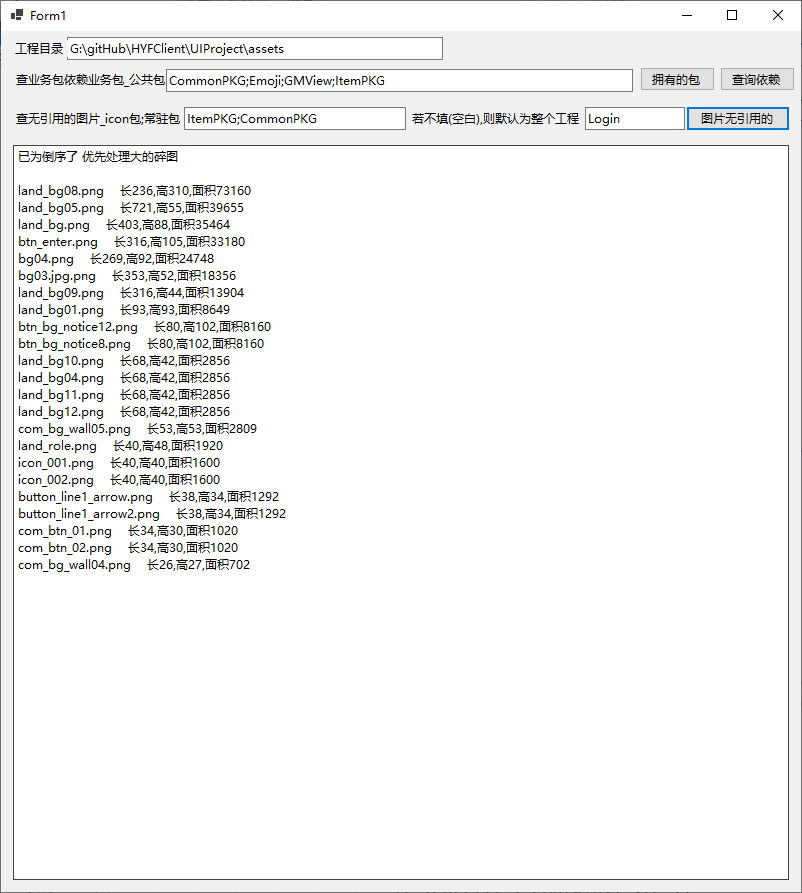
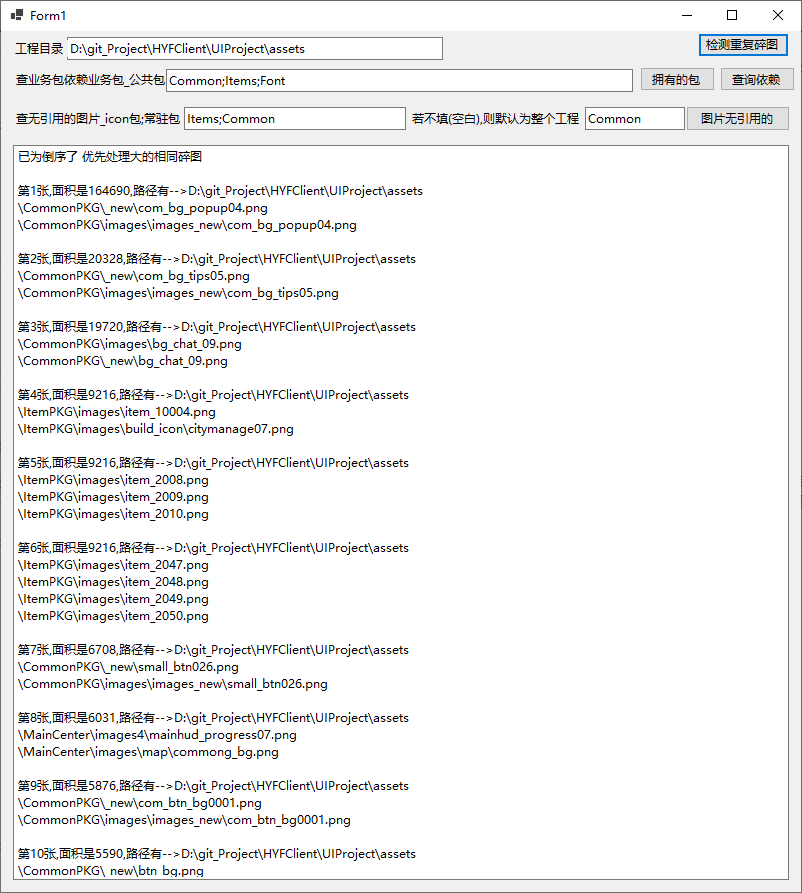
增加功能 雷同图片 检测

diff --git a/WinForms_FGUI/Form1.Designer.cs b/WinForms_FGUI/Form1.Designer.cs
@@ -40,6 +40,7 @@
             ignoreTxt = new TextBox();
             label4 = new Label();
             ignoreIconCommon = new TextBox();
+            checkImgBtn = new Button();
             SuspendLayout();
             // 
             // fguiPath
@@ -149,11 +150,22 @@
             ignoreIconCommon.TabIndex = 11;
             ignoreIconCommon.Text = "Items;Common";
             // 
+            // checkImgBtn
+            // 
+            checkImgBtn.Location = new Point(697, 2);
+            checkImgBtn.Name = "checkImgBtn";
+            checkImgBtn.Size = new Size(91, 24);
+            checkImgBtn.TabIndex = 12;
+            checkImgBtn.Text = "检测重复碎图";
+            checkImgBtn.UseVisualStyleBackColor = true;
+            checkImgBtn.Click += checkImgBtn_Click;
+            // 
             // Form1
             // 
             AutoScaleDimensions = new SizeF(7F, 17F);
             AutoScaleMode = AutoScaleMode.Font;
             ClientSize = new Size(800, 861);
+            Controls.Add(checkImgBtn);
             Controls.Add(ignoreIconCommon);
             Controls.Add(label4);
             Controls.Add(ignoreTxt);
@@ -187,5 +199,6 @@
         private TextBox ignoreTxt;
         private Label label4;
         private TextBox ignoreIconCommon;
+        private Button checkImgBtn;
     }
 }
